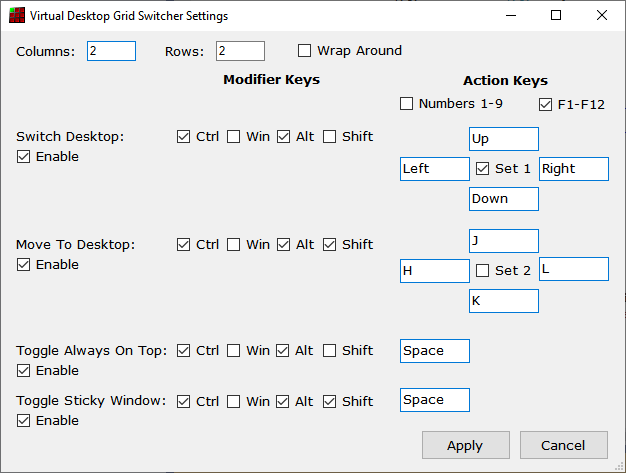
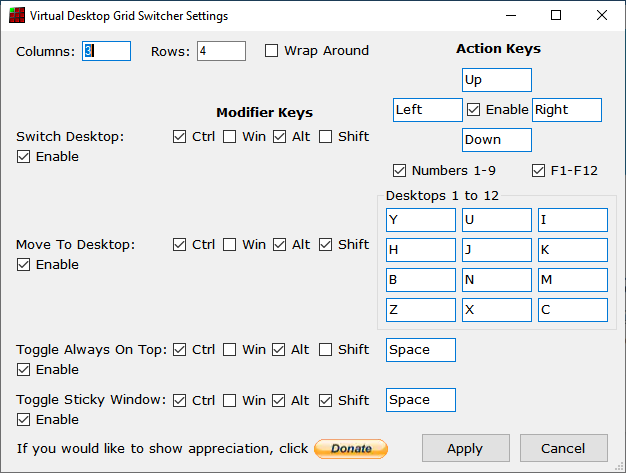
Allow custom specific desktop hotkeys instead of 2nd set of direction keys

diff --git a/VirtualDesktopGridSwitcher/Settings/SettingsDialog.Designer.cs b/VirtualDesktopGridSwitcher/Settings/SettingsDialog.Designer.cs
@@ -793,7 +793,7 @@
             // pictureBoxDonate
             // 
             this.pictureBoxDonate.Image = global::VirtualDesktopGridSwitcher.Properties.Resources.Donate;
-            this.pictureBoxDonate.Location = new System.Drawing.Point(313, 407);
+            this.pictureBoxDonate.Location = new System.Drawing.Point(313, 408);
             this.pictureBoxDonate.Name = "pictureBoxDonate";
             this.pictureBoxDonate.Size = new System.Drawing.Size(74, 21);
             this.pictureBoxDonate.TabIndex = 61;

diff --git a/Documentation/UserGuide/VirtualDesktopGridSwitcher_UserGuide.md b/Documentation/UserGuide/VirtualDesktopGridSwitcher_UserGuide.md
@@ -1,4 +1,4 @@
-Virtual Desktop Grid Switcher User Guide
+Virtual Desktop Grid Switcher User Guide
 ========================================
 
 Virtual Desktop Grid Switcher allows you to switch and move the current active window between Windows 10 Virtual Desktops in a virtual grid layout using arrow keys. This is helpful if like me you use more than a few desktops. The default layout is a 3x3 grid of desktops.
@@ -18,7 +18,7 @@ Grid Layout
 
 You can change the Columns and Rows in your grid. If you do this you will probably want to change the icons used for each desktop. These can be found in the Icons folder of your installation. Alternative icon sets are available from VirtuaWin which inspired the development of this program at https://virtuawin.sourceforge.io/?page_id=48
 
-When you increase the number of desktops required they automatically created for you. Reducing the number required leaves them for you to delete using the usual method (but you will not be able to access them via the arrow keys).
+When you increase the number of desktops required they are automatically created for you. Reducing the number required leaves them for you to delete using the usual method (but you will not be able to access them via the arrow keys).
 
 DO NOT PUT TOO LARGE NUMBERS IN THE ROWS AND COLUMNS AS WINDOWS WILL GRIND TO A HALT with so many desktops and you will have a hard time deleting them all. Even restarting won’t help!
 
@@ -33,9 +33,11 @@ Note if another program is already using a key combination you will be warned th
 
 Each operation Switch/Move/Always On Top/Sticky Window can be enabled/disabled separately.
 
-You can configure one or two sets of direction keys for Switch/Move.
+You can configure the direction keys for Switch/Move to use different keys than the arrow keys.
 
-You can enable number and/or F1-12 keys to switch/move to a particular desktop by number. Note that the F1-12 keys are very commonly already assigned for other uses.
+You can enable number and/or F1-12 keys to switch/move to a particular desktop by number and also a set of custom keys for desktops 1-12 (it is actually possible to configure more if you directly edit the file VirtualDesktopGridSwitcher.Settings - click Apply in settings if you don't have that file). Note that the F1-12 keys are very commonly already assigned for other uses.
+
+All of the above use the same modifier key combinations for Switch/Move.
 
 Window Activation on Switch From Empty Desktop
 ----------------------------------------------
@@ -51,7 +53,7 @@ This also happens for PDFs opened in Acrobat Reader with tabbed mode disabled.
 
 Virtual Desktop Grid Switcher attempts to detect the switching of the desktop to that of the other document and then the new document in quick succession and moves the new document window to the original desktop. 
 
-If this is not working for you, you may need to increase the MoveOnNewWindowDetectTimeoutMs value in the VirtualDesktopGridSwitcher.Settings file - click Apply in settings if you don't have one. This is in milliseconds and determines what "quick succession" means. In 2.5.0.0 this was increased to 3 seconds since this seems to be necessary unless the file is simple to load in Excel.
+If this is not working for you, you may need to increase the MoveOnNewWindowDetectTimeoutMs value in the VirtualDesktopGridSwitcher.Settings file - click Apply in settings if you don't have one. This is in milliseconds and determines what "quick succession" means. In version 2.5.0.0 this was increased to 3 seconds since this seems to be necessary unless the file is simple to load in Excel.
 
 You can also add the executable name for other programs you think might benefit from this to MoveOnNewWindowExeNames (or remove word and excel if it is causing problems for you or prefer the original behaviour).
 
